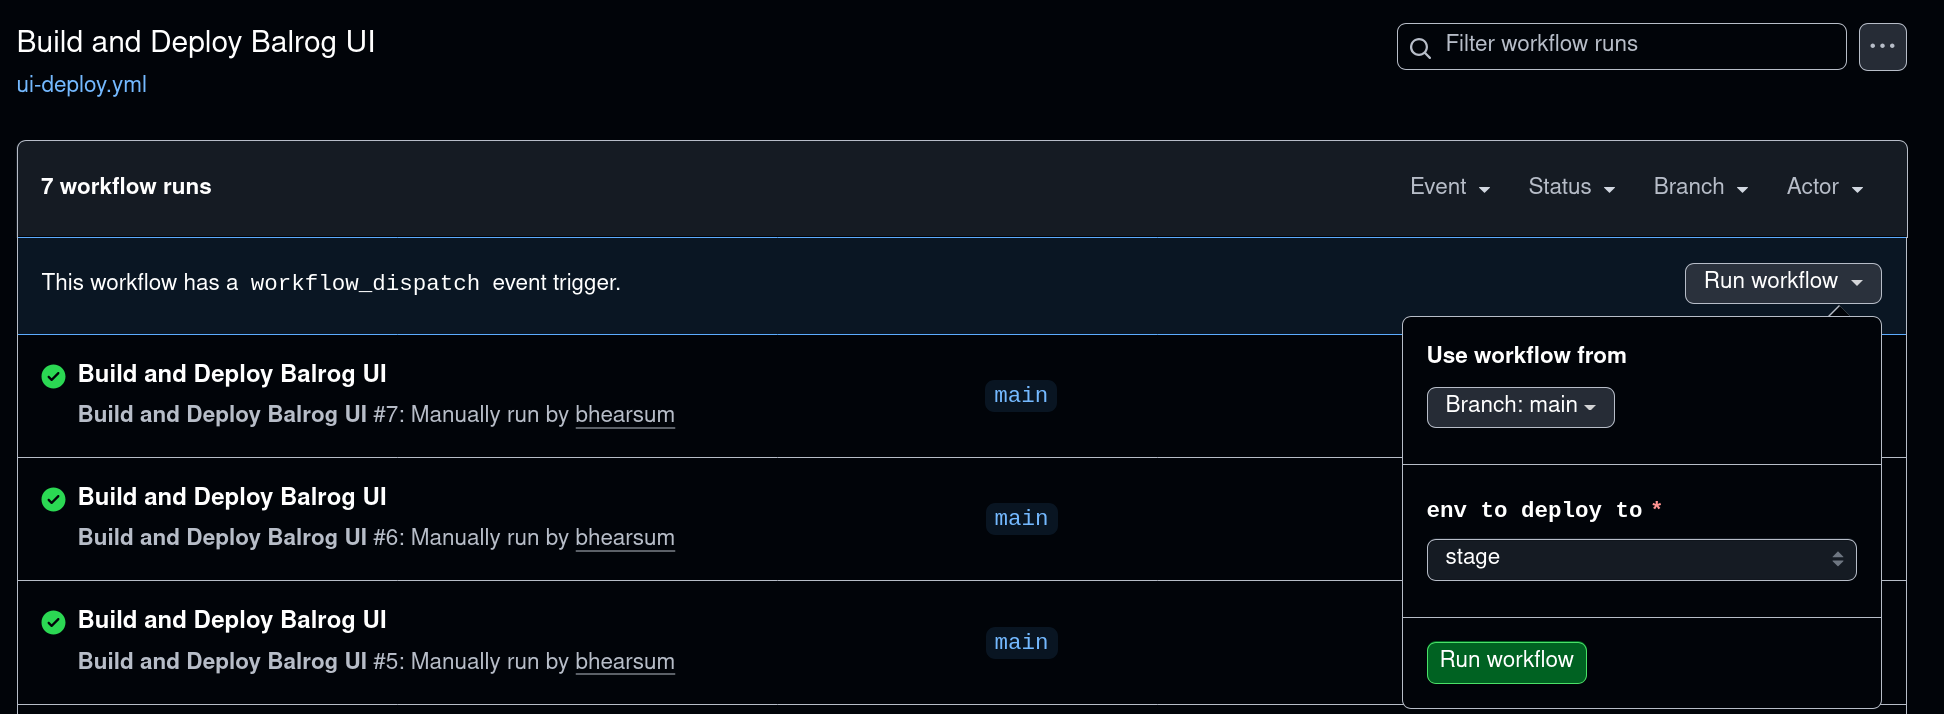
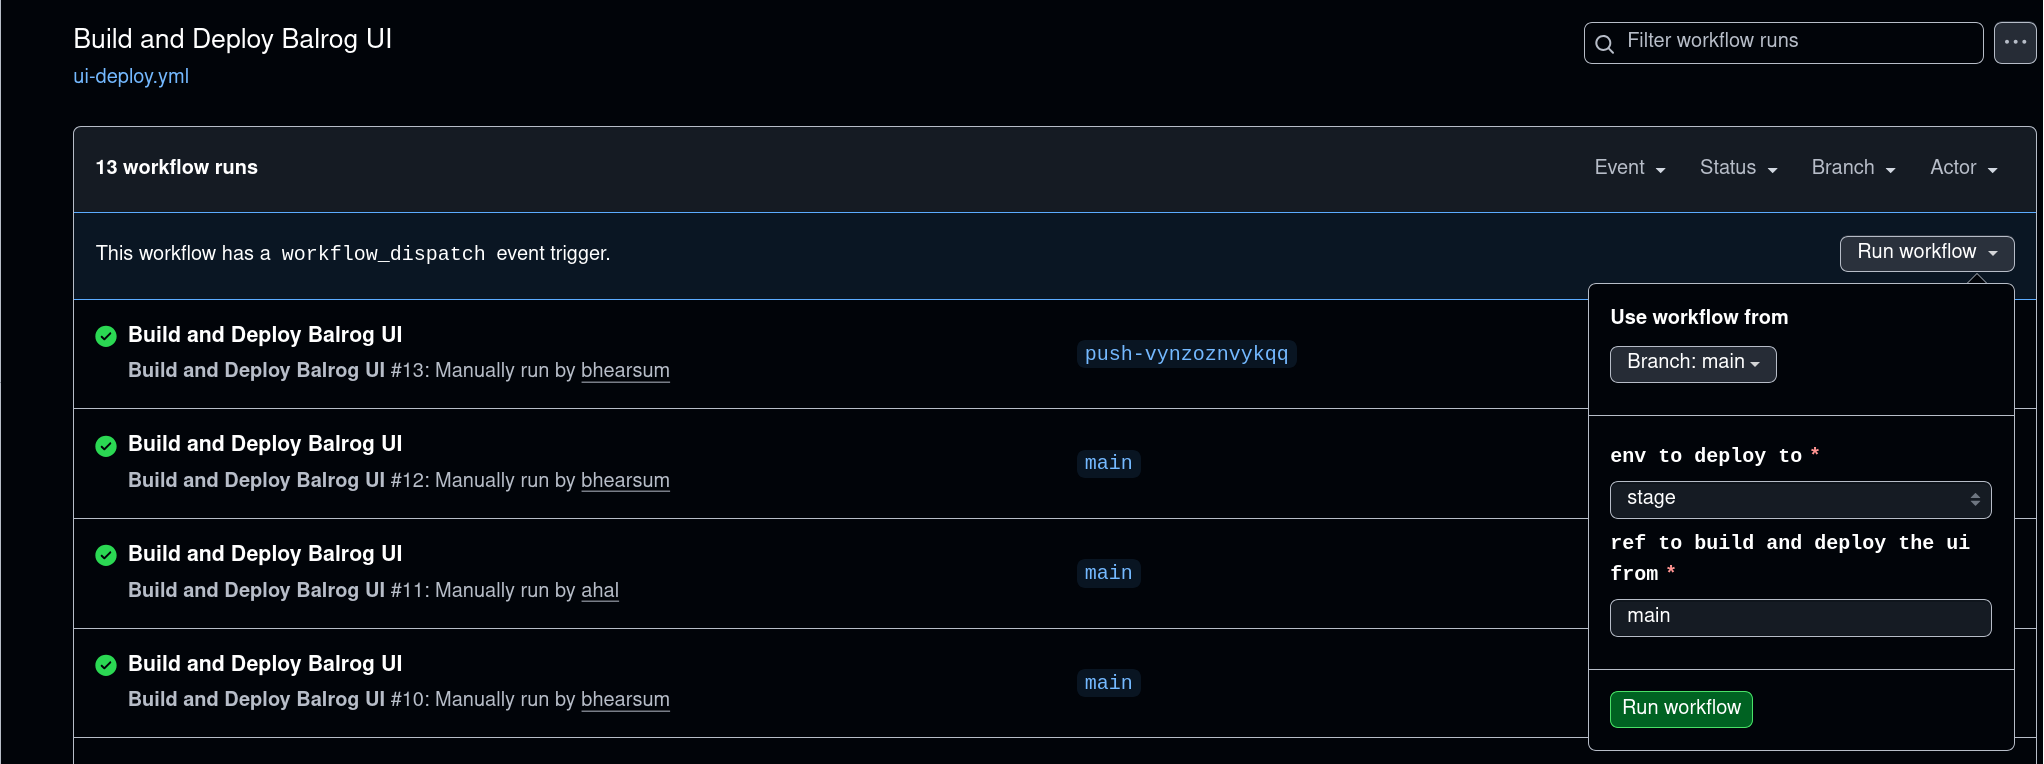
docs: update deployment instructions and URLs for MozCloud prod (#3787)

Pull request: docs: update deployment instructions and URLs for MozCloud prod
I plan to merge this after we cut prod over to MozCloud on Thursday.

Also includes minor tweaks to the stage instructions.

diff --git a/docs/source/infrastructure.rst b/docs/source/infrastructure.rst
@@ -8,21 +8,21 @@ Environments
 
 We have stage and production deployments of Balrog. Here's a quick summary:
 
-+-------------+-----------+------------------------------------------------------------+-----------------------------------------+-------------------------------------------------------------------------------+
-| Environment | App       | URL                                                        | Deploys                                 | Purpose                                                                       |
-+=============+===========+============================================================+=========================================+===============================================================================+
-| Production  | Admin API | https://aus4-admin.mozilla.org/                            | Manually, after someone clicks a button | Manage and serve production updates                                           |
-+             +-----------+------------------------------------------------------------+ in Jenkins (details below)              +                                                                               +
-|             | Admin UI  | https://balrog.services.mozilla.com/                       |                                         |                                                                               |
-+             +-----------+------------------------------------------------------------+                                         +                                                                               +
-|             | Public    | https://aus5.mozilla.org/                                  |                                         |                                                                               |
-+-------------+-----------+------------------------------------------------------------+-----------------------------------------+-------------------------------------------------------------------------------+
-| MozCloud    | Admin API | https://admin.stage.balrog.nonprod.webservices.mozgcp.net  | When the "Pull and Push Docker Image"   | A place to submit staging Releases and verify new Balrog code with automation |
-+ Stage       +-----------+------------------------------------------------------------+ Github Action is run, and a sync is     +                                                                               +
-|             | Admin UI  | https://balrog.allizom.org                                 | performed in ArgoCD                     |                                                                               |
-+             +-----------+------------------------------------------------------------+                                         +                                                                               +
-|             | Public    | https://stage.balrog.nonprod.webservices.mozgcp.net        |                                         |                                                                               |
-+-------------+-----------+------------------------------------------------------------+-----------------------------------------+-------------------------------------------------------------------------------+
++-------------+-----------+--------------------------------------------------------------+-----------------------------------------+-------------------------------------------------------------------------------+
+| Environment | App       | URL                                                          | Deploys                                 | Purpose                                                                       |
++=============+===========+==============================================================+=========================================+===============================================================================+
+| Production  | Admin API | https://aus4-admin.mozilla.org/, https://aus-api.mozilla.org | When a sync is performed in ArgoCD      | Manage and serve production updates                                           |
++             +-----------+--------------------------------------------------------------+ after a staging deployment.             +                                                                               +
+|             | Admin UI  | https://balrog.mozilla.org/                                  |                                         |                                                                               |
++             +-----------+--------------------------------------------------------------+                                         +                                                                               +
+|             | Public    | https://aus5.mozilla.org/                                    |                                         |                                                                               |
++-------------+-----------+--------------------------------------------------------------+-----------------------------------------+-------------------------------------------------------------------------------+
+| Stage       | Admin API | https://admin.stage.balrog.nonprod.webservices.mozgcp.net    | When the "Pull and Push Docker Image"   | A place to submit staging Releases and verify new Balrog code with automation |
++             +-----------+--------------------------------------------------------------+ Github Action is run, and a sync is     +                                                                               +
+|             | Admin UI  | https://balrog.allizom.org                                   | performed in ArgoCD                     |                                                                               |
++             +-----------+--------------------------------------------------------------+                                         +                                                                               +
+|             | Public    | https://stage.balrog.nonprod.webservices.mozgcp.net          |                                         |                                                                               |
++-------------+-----------+--------------------------------------------------------------+-----------------------------------------+-------------------------------------------------------------------------------+
 
 --------------------
 Support & Escalation
@@ -94,7 +94,7 @@ Once that completes, ArgoCD will begin updating ``stage`` deployments. This will
 
 .. image:: balrog-app-3-dots.png
 
-Once Argo has finished updating everything, you should notifications for ``agent``, ``admin`` and ``app`` in Slack:
+Once Argo has finished updating everything, you should see notifications for ``agent``, ``admin`` and ``app`` in Slack:
 
 .. image:: deployment-notifications.png
 
@@ -112,58 +112,40 @@ Once the changes are deployed to stage, you should do some testing to make sure 
 Pushing to Production
 ~~~~~~~~~~~~~~~~~~~~~
 
-Note: these instructions are for the GCPv1 production environment. When we move to the MozCloud-managed environment this will change (May or June 2026).
+Note: Pushing to production requires that the "Pull and Push Docker Image" for the desired version has already been run (usually as part of the Stage deployment described above). This is required to get ArgoCD into the necessary state for the following instructions to work.
 
-Pushing the backends live requires some button clicking in Jenkins. For each of
-`balrog-admin-production <https://ops-master.jenkinsv2.prod.mozaws.net/job/gcp-pipelines/job/balrog/job/balrog-admin-production/>`_,
-`balrog-production <https://ops-master.jenkinsv2.prod.mozaws.net/job/gcp-pipelines/job/balrog/job/balrog-production/>`_,
-and `balrog-agent-production <https://ops-master.jenkinsv2.prod.mozaws.net/job/gcp-pipelines/job/balrog/job/balrog-agent-production/>`_ in Jenkins do the following. (If there are no schema changes, these may be done in parallel. If there are schema changes, see ``Schema Upgrades``):
+To begin the production deployment process you must "Sync" ``admin``, ``agent``, and ``app`` in ArgoCD. For the former two, the deployment process is complete once this finishes successfully. For the latter, this will only deploy a canary pod, allowing a fraction of requests to be handled by the new release.
 
-  * Find the ``PROD: DEPLOY`` or ``PROD: PROCEED`` step
-  * Click the cell for this step in the topmost row. This should bring up a confirmation dialog as shown below.
-  * Click ``Proceed``
+.. image:: prod-sync.png
 
-.. image:: proceed.png
+Once Argo has finished updating everything, you should see notifications for ``agent`` and ``admin`` in Slack (no notification will be sent for ``app`` until the rollout is promoted later):
 
-After this, there is nothing else to do for ``balrog-admin-production`` nor ``balrog-agent-production``. However, the public app (``balrog-production``) will first deploy a canary (meaning the new code will only be used for a small fraction of requests).
+.. image:: prod-notify1.png
+
+To deploy the new UI to production, run the "Build and Deploy Balrog UI" Github action. Be sure to choose "prod" from the dropdown:
+
+.. image:: ui-prod.png
 
 Before proceeding, you should monitor for changes in load or exceptions for at least a few minutes. Specifically:
+
 - Watch Sentry to see if any new exceptions show up for any of the backend services
-- Watch the Grafana graphs for spikes or dips in any of the charts
+- Watch `the Grafana graphs <https://yardstick.mozilla.org/d/fRuT9IGZfsdfweAA/balrog3a-mozcloud-v2?orgId=1&from=now-1h&to=now&timezone=browser&var-env=prod&var-containers=$__all&var-datasource=adpvtjmrxoc1sb&refresh=30s&editIndex=0>`_ for spikes or dips in any of the charts
 
 If anything notable comes up you should seek an explanation for it before proceeding. If you are unable to explain the issue, consult with someone else and consider rolling back in the meantime.
 
-When you are ready, find the ``PROD: PROMOTE`` cell in Jenkins and click ``Proceed`` to finish with this deployment.
+When you are satisfied that the ``app`` canary is functioning correctly, and no issues have been found, proceed to promote the canary to full rollout with the "Promote-Full" option:
 
-To push new UI to production you must delete and recreate the "production-ui" tag & release on Github to push the new UI to production:
+.. image:: prod-rollout.png
 
-  * On https://github.com/mozilla-releng/balrog/releases/tag/production-ui, click "Delete" (this deletes the Github Release).
-  * On https://github.com/mozilla-releng/balrog/releases/tag/production-ui, click "Delete" (this deletes the Git tag, even though it's the same URL).
-  * On https://github.com/mozilla-releng/balrog/releases/new, create a new `production-ui` Release. This will trigger automation to deploy the new UI.
+Once Argo has finished promoting the rollout, you should see a notification for ``app`` in Slack:
+
+.. image:: prod-notify2.png
+
+You have now fully deployed the new version of Balrog to production!
 
 ~~~~~~~~~
 Rollbacks
 ~~~~~~~~~
-
-______________
-GCPv1 Services
-______________
-
-To rollback the admin, public, and agent backends, do the following for each of ``balrog-admin-production``, ``balrog-production``, and ``balrog-agent-production`` in Jenkins:
-
-  * Click "Build with Parameters" in the menu on the left.
-  * Put the version you want to redeploy in the ``ImageTag`` field. This should be in the form of ``vX.Y``, eg: ``v3.20``.
-  * Click ``Build``
-
-As in this screenshot:
-
-.. image:: redeploy.png
-
-This will begin a deployment as described above. See the ``Pushing to Production`` section above for how to proceed with the production deployment from here.
-
-_________________
-MozCloud Services
-_________________
 
 See https://mozilla-hub.atlassian.net/wiki/spaces/SRE/pages/1703772181/How+to+Rolling+back+to+a+previous+application+deployment.
 
@@ -171,9 +153,6 @@ __
 UI
 __
 
-If the UI needs a rollback, after deleting the previous production-ui release and tag as above, update the "production-ui" tag to point to the earlier version. Something like (to point to v3.08):
-::
+To revert UI changes, re-run the "Build and Deploy Balrog UI" action, specifying a different ref (preferably the previous release tag):
 
- git tag -d production-ui
- git tag -s production-ui v3.08^{}
- git push origin production-ui
+.. image:: ui-revert.png